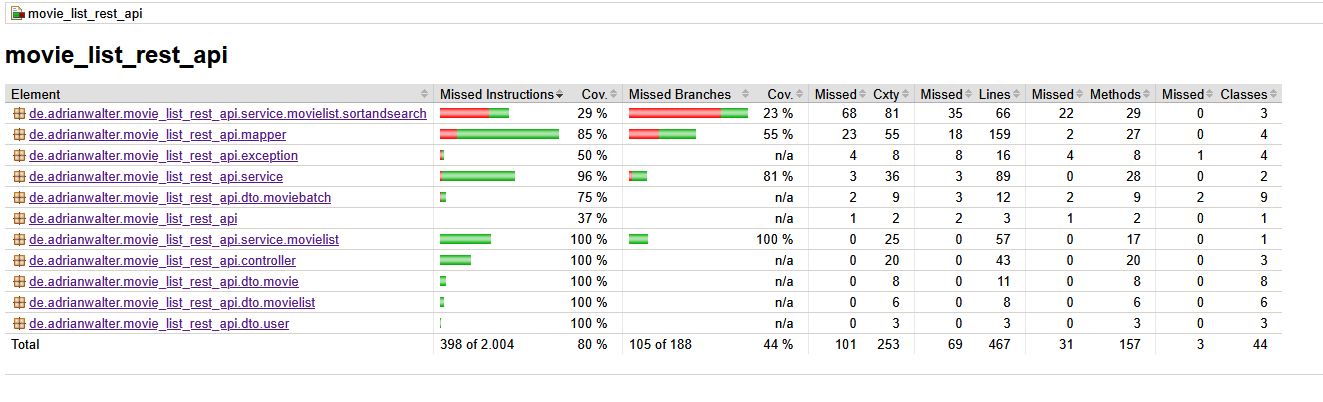
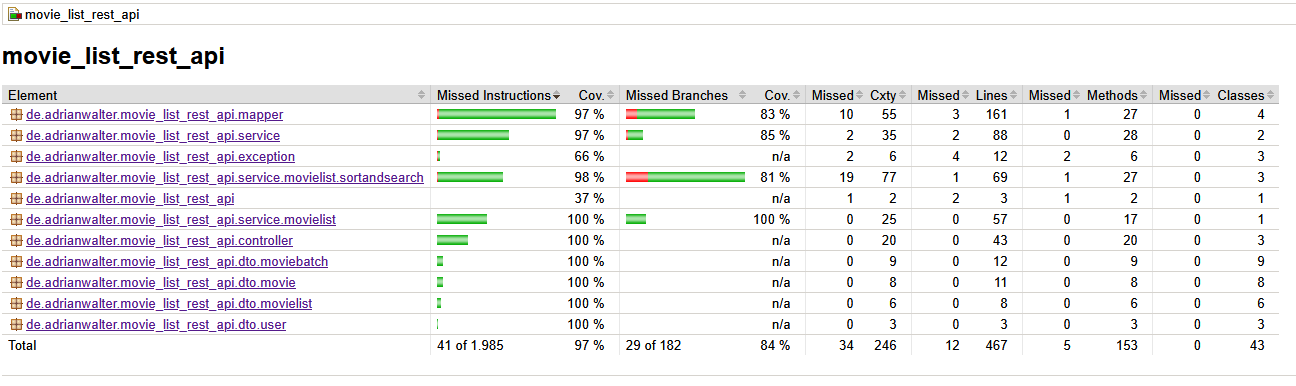
updated text and screenshot of test coverage

Changed region(s): [[0.0, 0.0933, 0.9877, 0.9326], [0.0, 0.0, 1.0, 0.0622], [0.8025, 0.9016, 0.8333, 0.9326]]

diff --git a/README.md b/README.md
@@ -14,10 +14,6 @@ decision-making.
 The project is currently at MVP stage and functional for personal use. Some features are still in development, and the 
 API may evolve as new functionality is added.
 
-**Next Priority:** 
-
-Implementing comprehensive test coverage to enable confident refactoring and early error detection.
-
 ### Latest Test Coverage
 
 ![testcoverageScreenshot](testCoverage.png)
